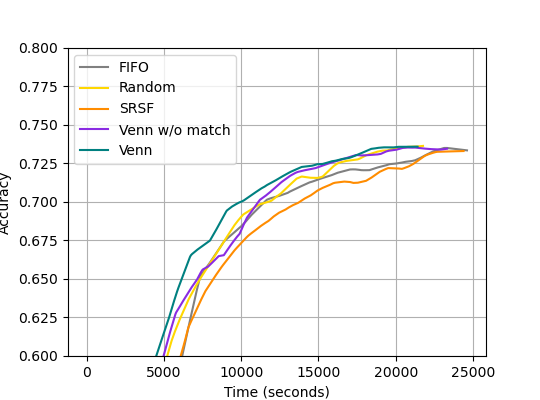
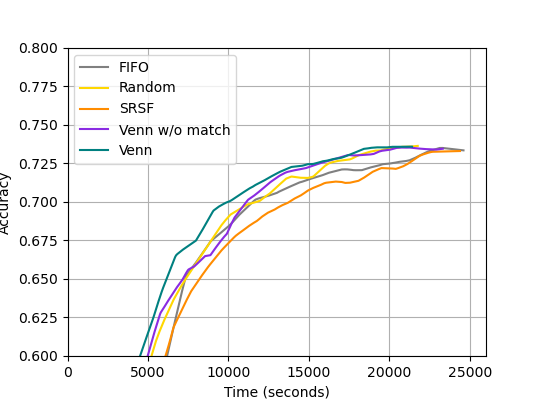
Finish Venn match

Changed region(s): [[0.237, 0.12, 0.9185, 0.96], [0.3852, 0.9, 0.5037, 0.96], [0.1185, 0.9, 0.1778, 0.96]]

diff --git a/scripts/analyze.py b/scripts/analyze.py
@@ -176,7 +176,7 @@ elif plot_option == 'test_loss':
     plt.ylabel("Avg. Testing Loss")
 # plt.title(f'Average Job Time to Accuracy Plot under Various Scheduling Policies, FEMNIST, {version}')
 plt.ylim([0.6, 0.8])
-# plt.xlim([10000, 20000])
+plt.xlim([0, 26000])
 plt.grid(True)
 plt.legend()
 
